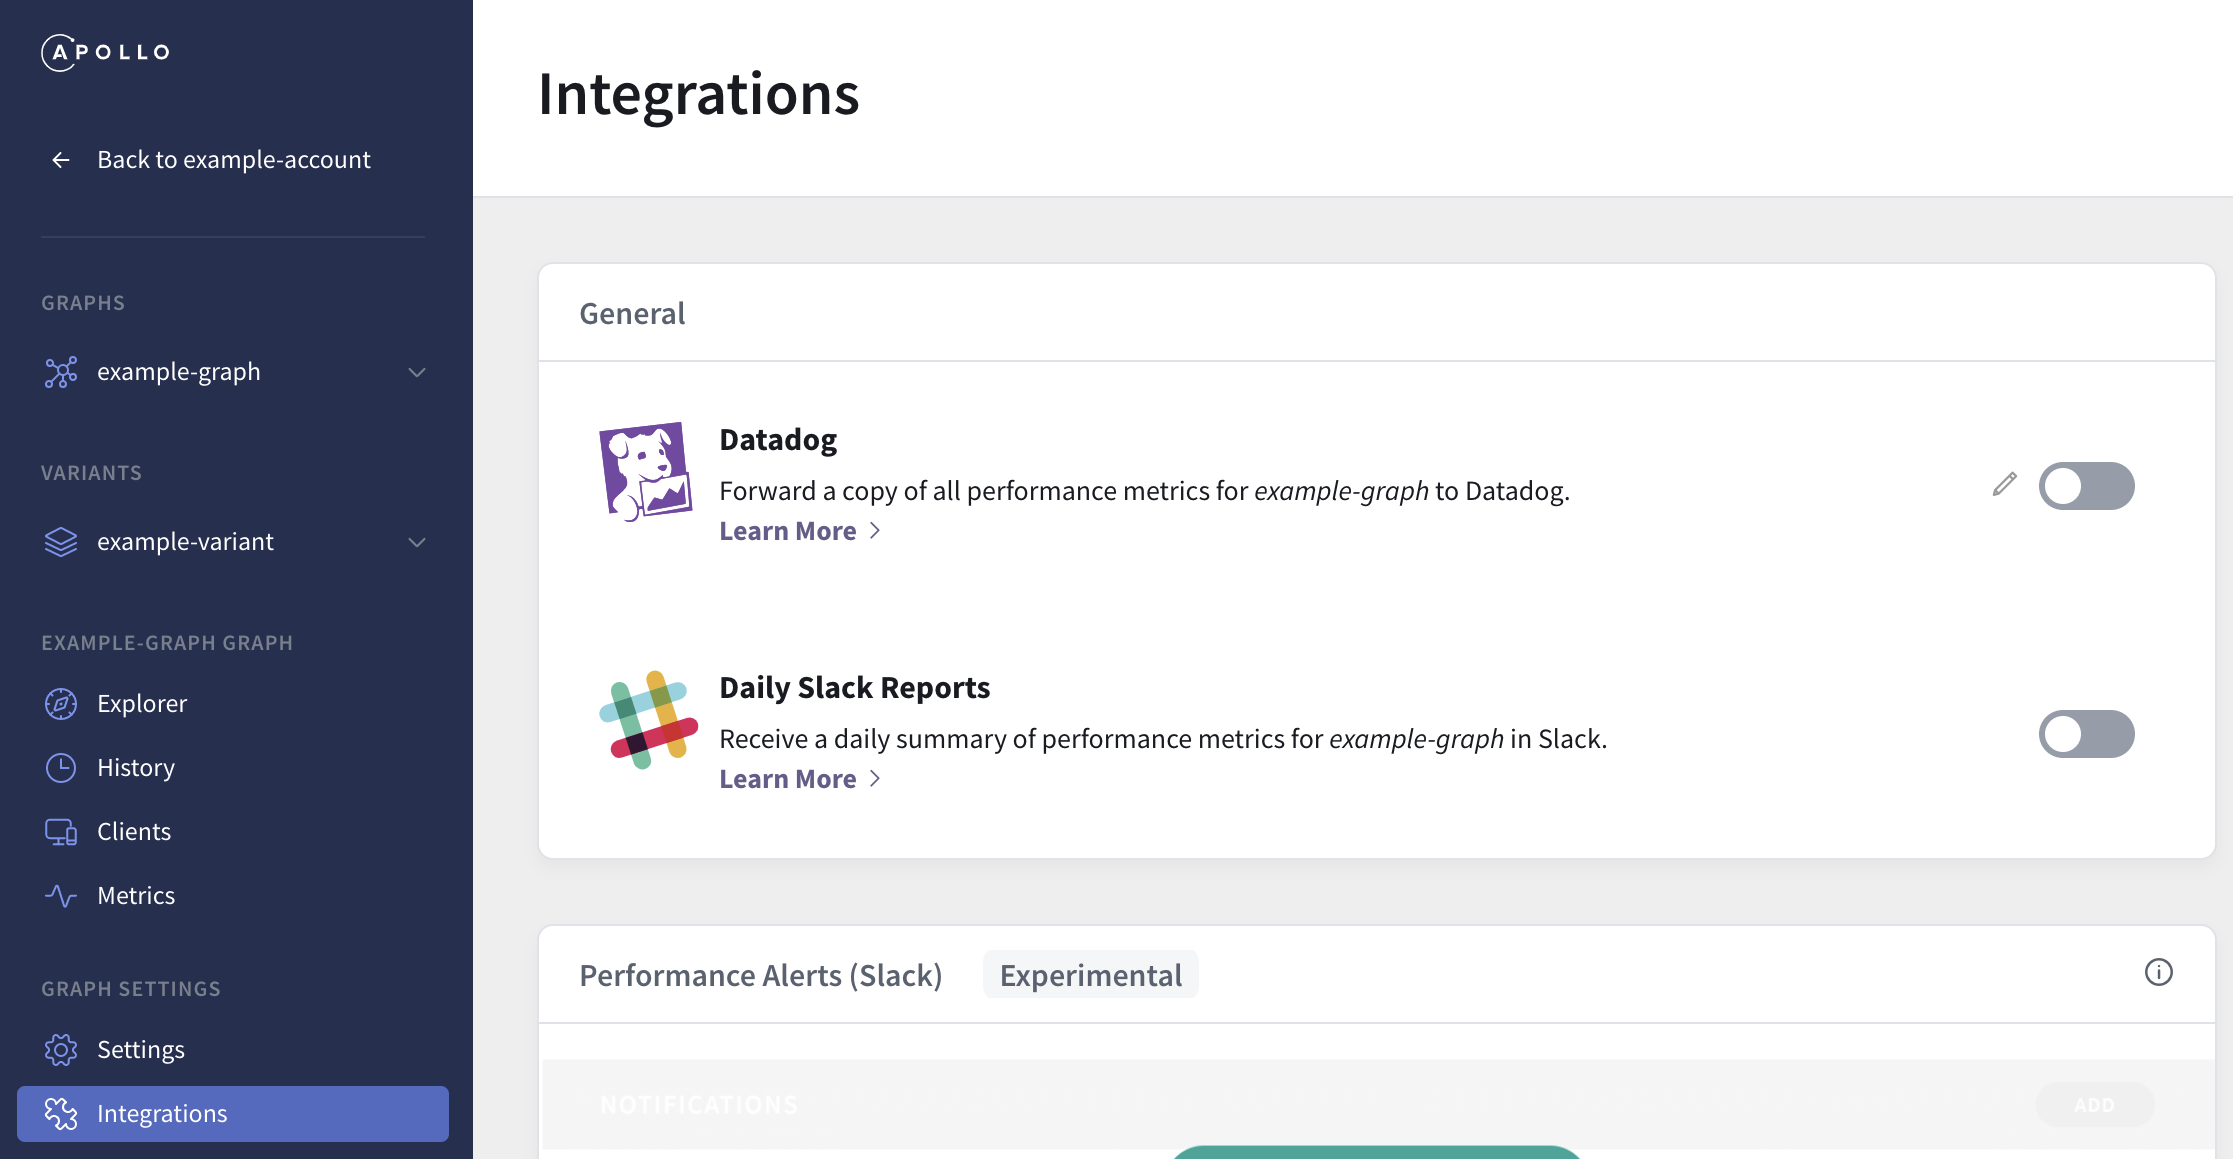
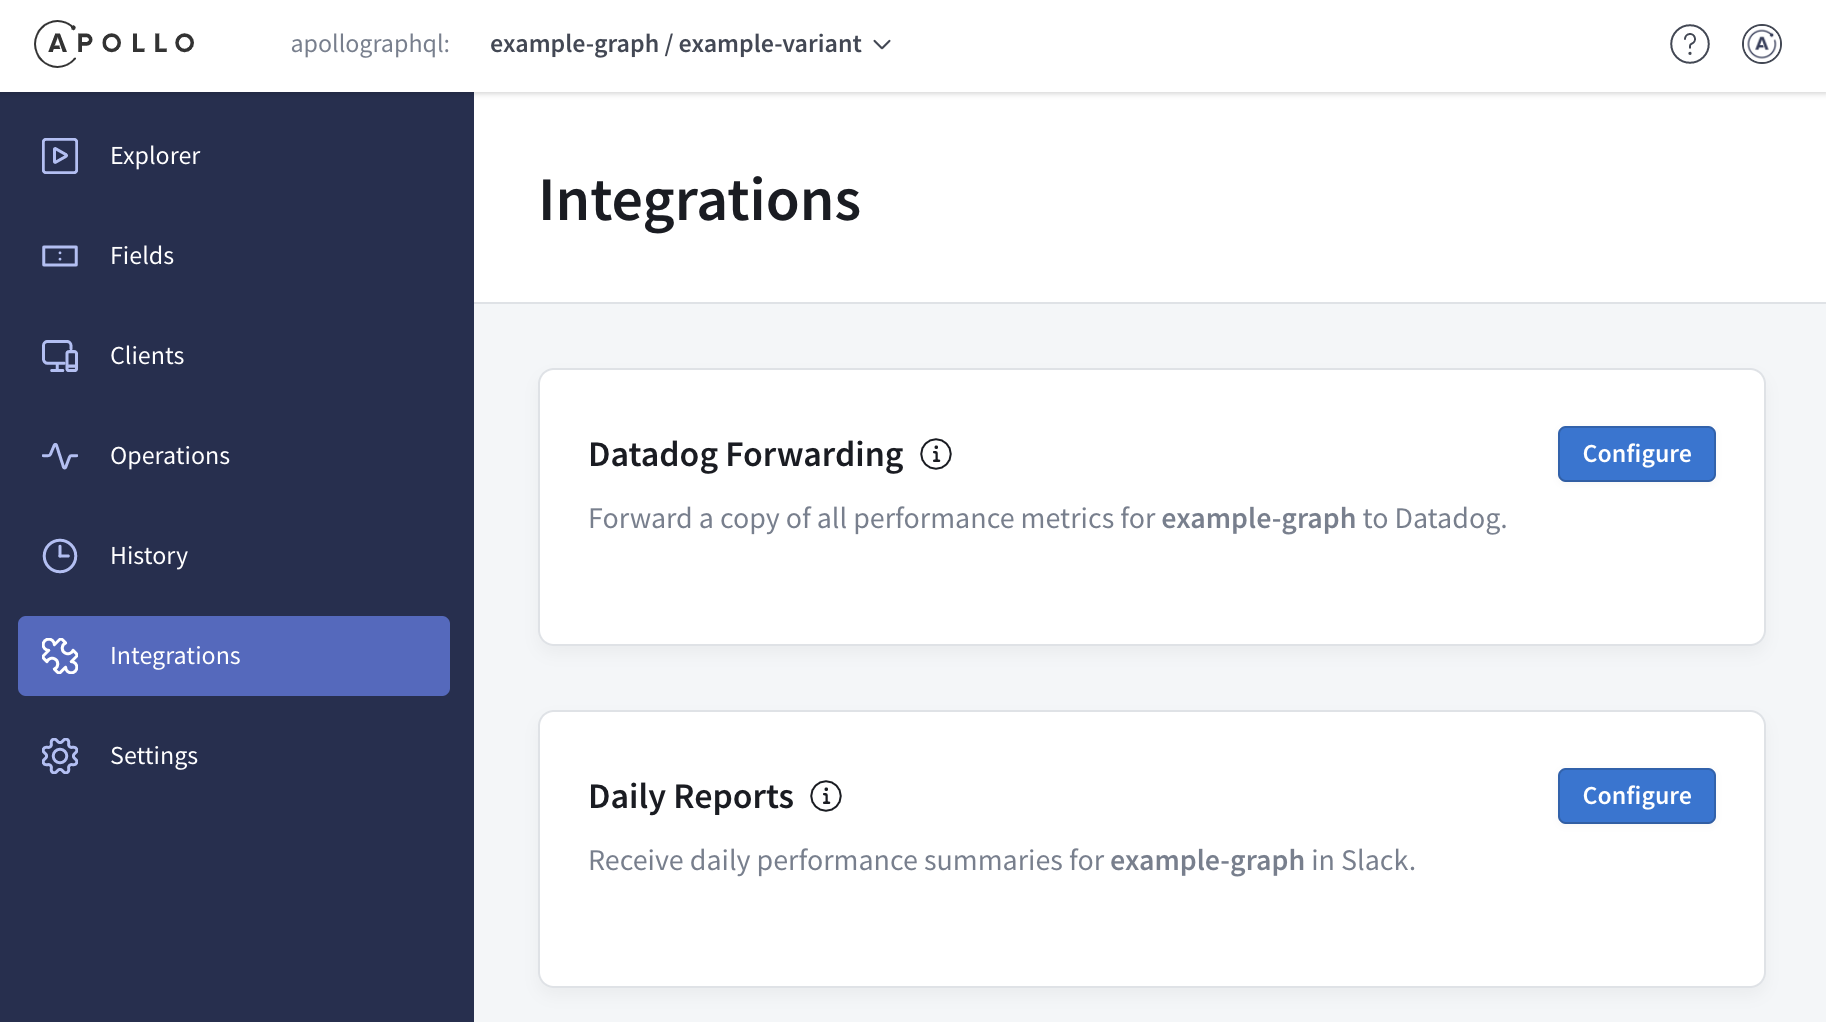
Apollo: README.md updates for Studio rebrand and API region support (#654)
* apollo: Update screenshots of the new Apollo Studio UI
* apollo: Update README.md for the rebrand from Graph Manager to Studio, and fix links to Studio docs
* apollo: Update README.md intro paragraph to reflect the Apollo Studio docs
* apollo: Update README.md metrics paragraphs to reflect the Apollo Studio docs
* apollo: Update README.md configuration section to reflect the Apollo Studio docs, and add a step for API region
* Update apollo/README.md

diff --git a/apollo/README.md b/apollo/README.md
@@ -2,16 +2,16 @@
 
 ## Overview
 
-The Apollo Datadog integration allows you to forward the performance metrics that are available to you in Graph Manager to Datadog. Datadog additionally supports the advanced function API, allowing teams to create graphs and alerts for their GraphQL metrics.
+The Apollo Datadog integration enables you to forward Studio performance metrics to your Datadog account. Datadog supports an advanced function API, which enables you to create graphs and alerts for GraphQL metrics.
 
 ![Metrics][1]
 
-The Datadog metrics forwarded by Graph Manager are:
+Studio forwards the following metrics to Datadog:
 
-- `apollo.engine.operations.count` - the number of GraphQL operations that were executed. This includes queries, mutations, and operations that resulted in an error.
-- `apollo.engine.operations.error_count` - the number of GraphQL operations that resulted in an error. This includes GraphQL execution errors, and HTTP errors if Graph Manager failed to connect to your server.
-- `apollo.engine.operations.cache_hit_count` - the number of GraphQL queries whose result was served from Apollo Server's full query cache.
-- A histogram of GraphQL operation response times, measured in milliseconds. Due to Graph Manager's aggregation method (logarithmic binning), these values are accurate to +/- 5%:
+- `apollo.engine.operations.count` - The number of GraphQL operations that were executed. This includes queries, mutations, and operations that resulted in an error.
+- `apollo.engine.operations.error_count` - The number of GraphQL operations that resulted in an error. This includes GraphQL execution errors, and HTTP errors if Studio failed to connect to your server.
+- `apollo.engine.operations.cache_hit_count` - The number of GraphQL queries for which the result was served from Apollo Server's full query cache.
+- A histogram of GraphQL operation response times, measured in milliseconds. Due to Studio's aggregation method (logarithmic binning), these values are accurate to +/- 5%:
 
   - `apollo.engine.operations.latency.min`
   - `apollo.engine.operations.latency.median`
@@ -20,31 +20,33 @@ The Datadog metrics forwarded by Graph Manager are:
   - `apollo.engine.operations.latency.max`
   - `apollo.engine.operations.latency.avg`
 
-All metrics forwarded to Datadog are aggregated in 60-second intervals and tagged with the GraphQL operation name as `operation:<QUERY_NAME>`. Unique query signatures with the same operation name are merged, and queries without an operation name are ignored.
+These metrics are aggregated in 60-second intervals and tagged with the GraphQL operation name as `operation:<query-name>`. Unique query signatures with the same operation name are merged, and queries without an operation name are ignored.
 
-All of the metrics are also tagged with the Graph Manager graph ID as `service:<GRAPH_ID>` and the variant name as `variant:<VARIANT_NAME>`, so multiple graphs from Graph Manager can send data to the same Datadog account. If you have not set a variant name, then "current" will be used.
-
-If you're reporting metrics to Graph Manager through the Engine proxy, Datadog will merge your statistics across multiple instances of the proxy (per-host metrics are not available). Just like in the Graph Manager UI, each operation inside a query batch is counted individually.
+These metrics are also tagged with both the associated Studio graph ID (as `service:<graph-id>`) and the associated variant name (as `variant:<variant-name>`), so multiple graphs from Studio can send data to the same Datadog account. If you haven't set a variant name, then `current` is used.
 
 ## Setup
 
 ### Configuration
 
-Getting set up with the Apollo Datadog integration is as simple as providing a Datadog API key to Graph Manager. There's no further configuration required.
+Getting set up with the Apollo Datadog integration is as simple as providing a Datadog API key and region to Studio. There's no further configuration required.
 
-1. Go to the [Datadog integrations page][2] and click on the Apollo tile. Go to the **Configuration** tab, scroll to the bottom, and press **Install Integration**.
+1. Go to your [Datadog integrations page][2] and click on the Apollo tile. Then go to the **Configuration** tab and click **Install Integration** at the bottom.
 
-2. Go to the [Datadog APIs page][3] and create an API key.
+2. Go to your [Datadog APIs page][3] and create an API key.
 
-3. In [Graph Manager][4], go to the integrations page for your graph.
+3. Determine your Datadog API region by looking at your browser's address bar:
+- If the domain name is `app.datadoghq.com`, then your API region is `US`.
+- If the domain name is `app.datadoghq.eu`, then your API region is `EU`.
+
+4. In [Studio][4], go to your graph's Integrations page:
 
    ![IntegrationsPage][5]
 
-4. Toggle the Datadog integration to turn it on. Paste the API key, and press **Save**. You can use the same API key for all your graphs, since all metrics are tagged with the graph ID (`service:<GRAPH_ID>`).
+5. In the Datadog Forwarding section, click **Configure**. Provide your API key and region, then click **Enable**. Because all forwarded metrics are tagged with the corresponding graph's ID (`service:<graph-id>`), you can use the same API key for all of your graphs.
 
    ![IntegrationsToggle][6]
 
-5. Go to the Datadog metrics explorer and start to see the metrics flow in! Please allow up to five minutes for metrics to be visible.
+6. Go to the Datadog metrics explorer and start to see the metrics flow in! Please allow up to five minutes for metrics to be visible.
 
 ### Usage
 
@@ -75,10 +77,10 @@ Learn more about infrastructure monitoring and all our integrations on [our blog
 [1]: https://raw.githubusercontent.com/DataDog/integrations-extras/master/apollo/images/metrics.png
 [2]: https://app.datadoghq.com/account/settings
 [3]: https://app.datadoghq.com/account/settings#api
-[4]: https://www.apollographql.com/docs/graph-manager/#viewing-graph-information
+[4]: https://www.apollographql.com/docs/studio/org/graphs/#viewing-graph-information
 [5]: https://raw.githubusercontent.com/DataDog/integrations-extras/master/apollo/images/settings-link.png
 [6]: https://raw.githubusercontent.com/DataDog/integrations-extras/master/apollo/images/settings-toggle.png
-[7]: https://www.apollographql.com/docs/graph-manager/datadog-integration/
+[7]: https://www.apollographql.com/docs/studio/datadog-integration/
 [8]: https://github.com/DataDog/integrations-extras/blob/master/apollo/metadata.csv
 [9]: https://docs.datadoghq.com/help/
 [10]: https://www.datadoghq.com/blog
